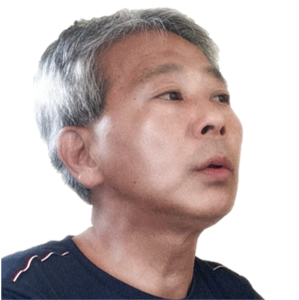
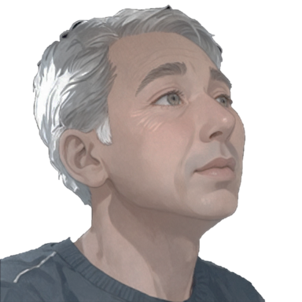
feat: rootElement.style.scrollBehavior 를 'smooth'가 아닌 default ''로 변경 + 양가부모님 ai사진으로 대체

diff --git a/index.html b/index.html
@@ -1537,7 +1537,7 @@
              id="families"
     >
         <div class="d-flex align-items-center justify-content-between">
-            <h2 class="section-title">양가 부모님 소개</h2>
+            <h2 class="section-title">양가 부모님</h2><span class="text-require" style="font-size: 11px;">*ai 추론 그림으로 대체</span>
         </div>
         <!-- 1번째 mt35 swiper (신부측) -->
         <div class="swiper product-list list-default mt35">

diff --git a/js/hero.js b/js/hero.js
@@ -120,7 +120,7 @@ document.addEventListener('alpine:init', () => {
 
             /* 2) 스크롤 움직임에 대해, 칼같이 움직이게 가능하도록 복구 */
             const rootElement = document.querySelector(':root');
-            rootElement.style.scrollBehavior = 'smooth';
+            rootElement.style.scrollBehavior = '';
 
             this.scrollToHeader();
 

diff --git a/css/typography.css b/css/typography.css
@@ -41,6 +41,9 @@ label {
 .text-gray {
     color: var(--greyd9) !important;
 }
+.text-require {
+    color: var(--require) !important;
+}
 
 .section-title {
     font-size: 24px;

diff --git a/css/variable.css b/css/variable.css
@@ -1,5 +1,6 @@
 :root {
     --purple: #6024c6;
+    --require: #FF6D62FF;
     --greye7: #e7e9ec;
     --greyf1: #f1f3f6;
     --greyf6: #f6f8fb;
